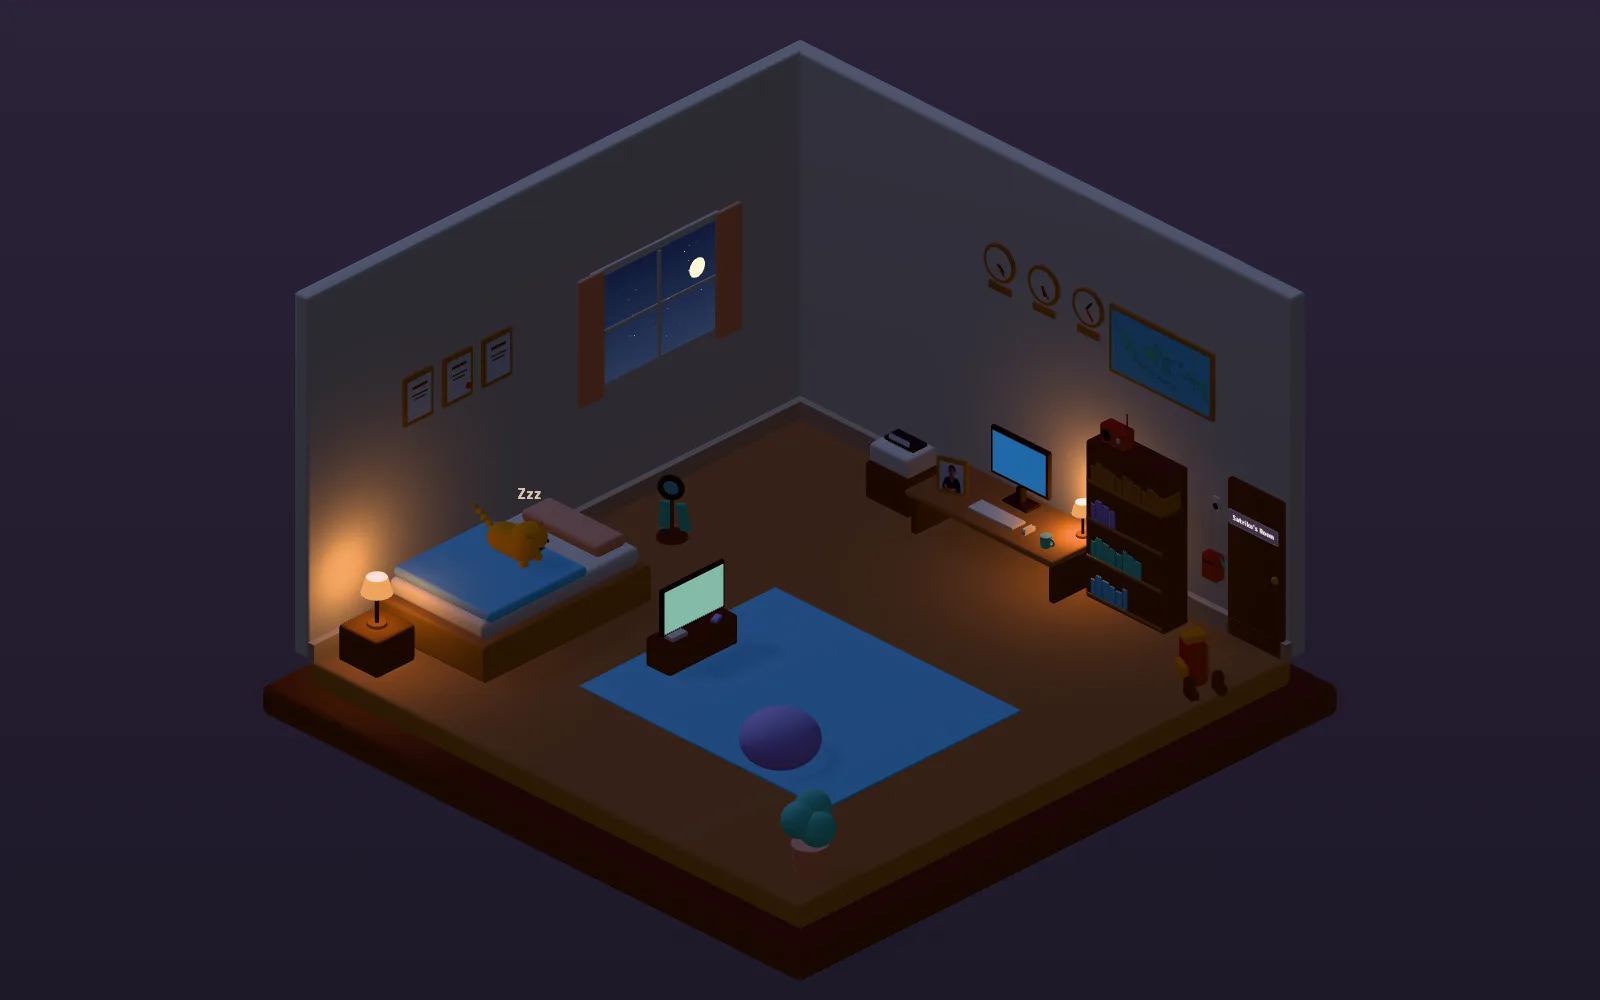
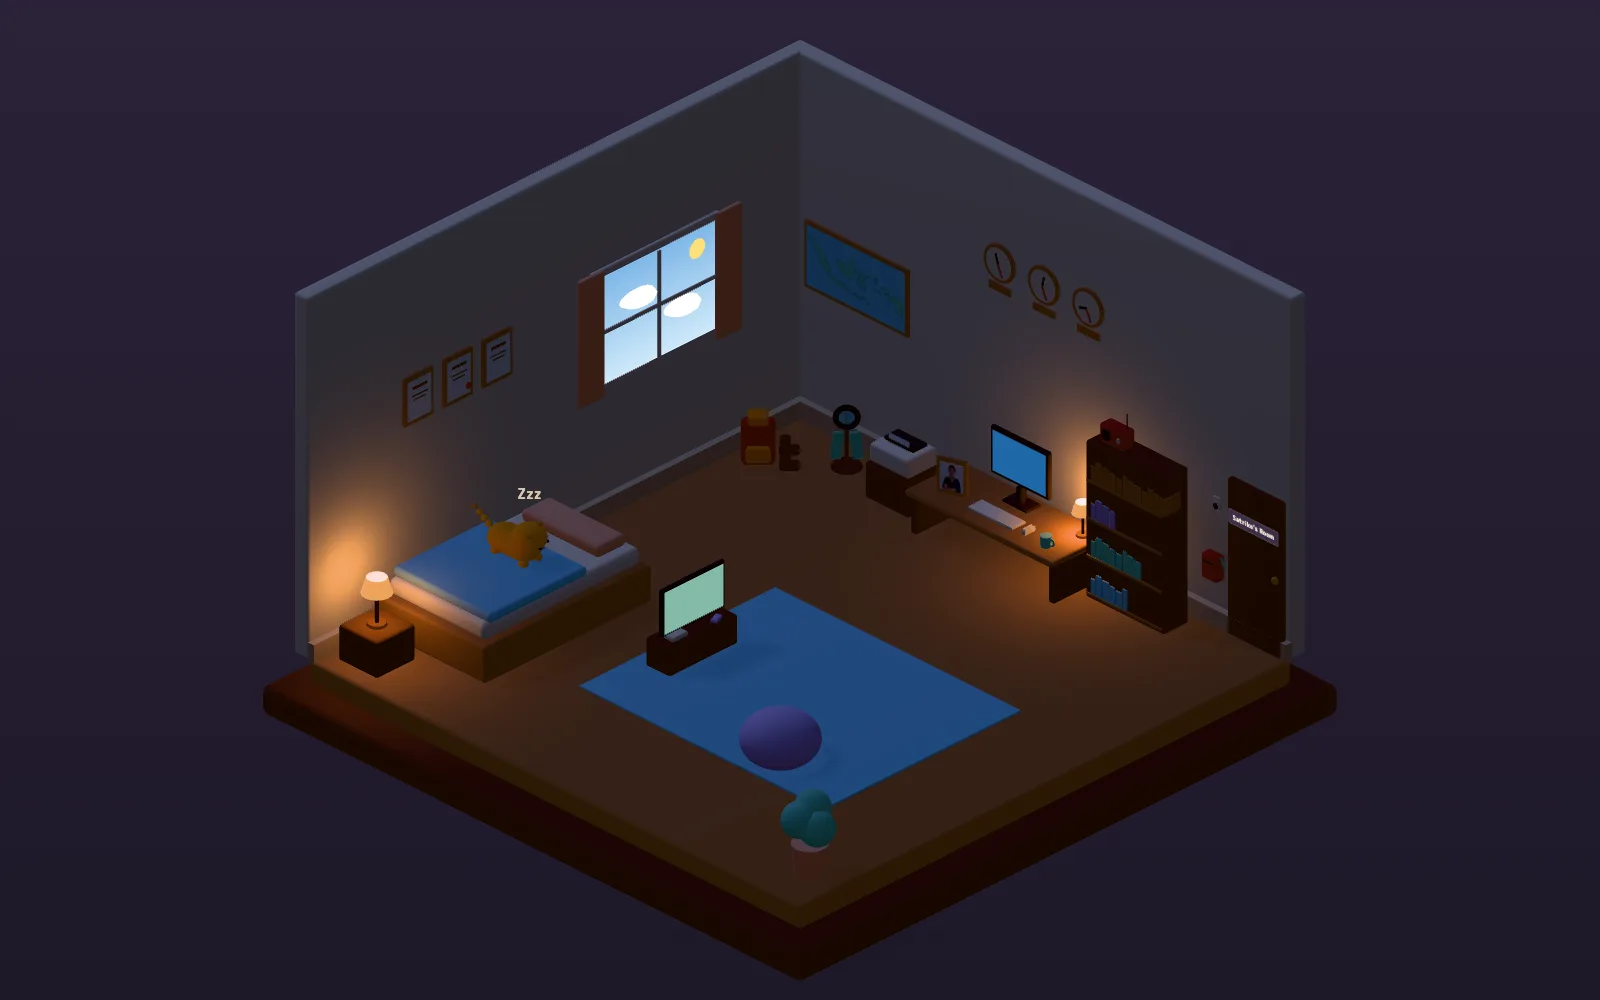
feat: group the outdoor hobbies in the back corner

diff --git a/src/constants/roomLayout.ts b/src/constants/roomLayout.ts
@@ -29,7 +29,6 @@ export const roomLayout: Record<ObjectId | DecorId, Placement> = {
   bed: { position: [-3.8, 0, 2.0], size: [2.2, 0.6, 3.4] },
   nightstand: { position: [-4.3, 0, 4.3], size: [0.8, 0.6, 0.8] },
   bedsideLamp: { position: [-4.3, 0.6, 4.3] },
-  'dive-gear': { position: [-3.8, 0, -1.2] },
   // right wall (z = -5)
   desk: { position: [0, 0, -4.2], size: [3.0, 0.75, 1.2] },
   pc: { position: [0, 0.75, -4.5] },
@@ -41,11 +40,17 @@ export const roomLayout: Record<ObjectId | DecorId, Placement> = {
   printer: { position: [-2.2, 0.6, -4.3] },
   bookshelf: { position: [2.4, 0, -4.45], size: [1.6, 2.6, 0.5] },
   radio: { position: [2.0, 2.6, -4.45] },
-  'indonesia-map': { position: [2.4, 3.9, -4.965], size: [2.0, 1.0, 0.06] },
   'light-switch': { position: [3.5, 2.0, -4.995] },
   mailbox: { position: [3.5, 1.0, -4.995] },
   door: { position: [4.35, 0, -4.935], size: [1.1, 2.6, 0.12] },
-  'hiking-gear': { position: [4.4, 0, -3.6] },
+  // outdoor-hobby corner (where the walls meet): gear on the floor, map above.
+  // Both pieces turn to face the camera, which looks in from +x, +z.
+  // The backpack's boots sit on its right, so it takes the left-wall side where
+  // they stay in view; the narrow dive stand goes against the back wall.
+  'hiking-gear': { position: [-4.45, 0, -3.6], rotationY: Math.PI / 4 },
+  'dive-gear': { position: [-3.45, 0, -4.4], rotationY: Math.PI / 4 },
+  // y 2.76 lines the frame's bottom edge up with the window's (y 2.2).
+  'indonesia-map': { position: [-3.8, 2.76, -4.965], size: [2.0, 1.0, 0.06] },
   // floor
   rug: { position: [0.8, 0.02, 0.8], size: [5, 0.04, 4] },
   tv: { position: [-1.2, 0, 1.0], rotationY: Math.PI / 2 },

diff --git a/src/constants/sections.ts b/src/constants/sections.ts
@@ -114,7 +114,7 @@ export const sections: readonly Section[] = [
     objectId: 'indonesia-map',
     theme: 'map',
     cameraPose: {
-      target: [2.4, 3.9, -4.93],
+      target: [-3.8, 2.76, -4.93],
       offset: [3.0, 1.6, 3.6],
       zoomFactor: 2.2,
     },
@@ -131,7 +131,7 @@ export const sections: readonly Section[] = [
     objectId: 'hiking-gear',
     theme: 'journal',
     cameraPose: {
-      target: [4.4, 0.5, -3.6],
+      target: [-4.25, 0.5, -3.75],
       offset: [3.0, 2.4, 3.4],
       zoomFactor: 2.6,
     },
@@ -148,7 +148,7 @@ export const sections: readonly Section[] = [
     objectId: 'dive-gear',
     theme: 'logbook',
     cameraPose: {
-      target: [-3.8, 0.6, -1.2],
+      target: [-3.45, 0.6, -4.4],
       offset: [3.2, 2.4, 3.4],
       zoomFactor: 2.6,
     },

diff --git a/src/components/three/Oyen/wander.test.ts b/src/components/three/Oyen/wander.test.ts
@@ -59,11 +59,13 @@ const boxes: Record<string, Box> = {
   bookshelf: footprint('bookshelf'),
   tv: [-1.45, -0.95, 0.3, 1.7],
 }
+const atFloor = (id: keyof typeof roomLayout, radius: number) =>
+  [roomLayout[id].position[0], roomLayout[id].position[2], radius] as const
 const circles: Record<string, readonly [number, number, number]> = {
-  beanbag: [1.8, 2.2, 0.6],
-  plant: [4.4, 4.2, 0.45],
-  diveGear: [-3.8, -1.2, 0.4],
-  hikingGear: [4.4, -3.6, 0.7],
+  beanbag: atFloor('beanbag', 0.6),
+  plant: atFloor('plant', 0.45),
+  diveGear: atFloor('dive-gear', 0.4),
+  hikingGear: atFloor('hiking-gear', 0.7),
 }
 // Oyen never stands in front of the desk, so it can't cover the PC.
 const deskFront: Box = [-1.6, 1.6, -3.6, -2.6]

diff --git a/src/components/three/objects/DiveGear/index.tsx b/src/components/three/objects/DiveGear/index.tsx
@@ -13,14 +13,16 @@ export default function DiveGear() {
   return (
     <group
       position={[...roomLayout['dive-gear'].position]}
-      rotation={[0, 0.5, 0]}
+      rotation={[0, roomLayout['dive-gear'].rotationY ?? 0, 0]}
     >
       <Interactive
         id="dive-gear"
         label="Diving"
         hitSize={[0.9, 1.1, 0.7]}
         hitOffset={[0, 0.5, 0]}
-        labelHeight={1.15}
+        // Higher than the backpack's tag beside it, so the two don't overlap on
+        // phones, where every tag is always shown.
+        labelHeight={1.95}
         onActivate={() => openFromScene('diving')}
       >
         <mesh position={[0, 0.45, 0]}>

diff --git a/src/components/three/objects/HikingGear/index.tsx b/src/components/three/objects/HikingGear/index.tsx
@@ -13,14 +13,14 @@ export default function HikingGear() {
   return (
     <group
       position={[...roomLayout['hiking-gear'].position]}
-      rotation={[0, -0.4, 0]}
+      rotation={[0, roomLayout['hiking-gear'].rotationY ?? 0, 0]}
     >
       <Interactive
         id="hiking-gear"
         label="Hiking"
         hitSize={[1.0, 0.9, 0.8]}
         hitOffset={[0, 0.4, 0]}
-        labelHeight={1.0}
+        labelHeight={0.95}
         onActivate={() => openFromScene('hiking')}
       >
         <RoundedBox

diff --git a/docs/design/03-room-scene.md b/docs/design/03-room-scene.md
@@ -8,14 +8,14 @@ A cozy **studio bedroom** (the room Satriko lives, works and games in), shown as
 
 ```text
               LEFT WALL                               RIGHT WALL
-   [Edu frames ×3]  [ WINDOW: live sky ]   [3 clocks]    [Indonesia map]   [Door + "Satriko's Room"]
-                    [curtains]            ┌───────────┐  ┌──────────┐      [Backpack + boots]
-   ┌───────────┐                          │ DESK + PC │  │BOOKSHELF │      [Mailbox]  [light switch]
-   │   BED     │  ← Oyen sleeps here      │ photo frame│  │ radio    │
-   │           │    at night              └───────────┘  └──────────┘
-   └───────────┘         [Dive mask + fins on a stand]   [printer on side table]
+   [Edu frames ×3]  [ WINDOW: live sky ] [Indonesia map]   [3 clocks]                  [Door + "Satriko's Room"]
+                    [curtains]                             ┌───────────┐  ┌──────────┐  [Mailbox]  [light switch]
+   ┌───────────┐  [Backpack + boots] [Dive mask + fins]    │ DESK + PC │  │BOOKSHELF │
+   │   BED     │   ↑ outdoor-hobby corner, under the map   │ photo frame│  │ radio    │
+   │           │  ← Oyen sleeps here   [printer on         └───────────┘  └──────────┘
+   └───────────┘    at night            side table]
                      ╭──────────────── rug ────────────────╮
-                     │   TV + console on low cabinet   ◉ beanbag │   ← Oyen sits here by day
+                     │   TV + console on low cabinet   ◉ beanbag │   ← Oyen starts here by day, then wanders
                      ╰─────────────────────────────────────╯
    [ reserved wall slot for a future Projects pinboard: left wall, between the frames and the window ]
 ```
@@ -35,9 +35,9 @@ This is a starting layout. **Exact positions, rotations and scales are tuned dur
 | 3 | `bookshelf` | Bookshelf with colored book spines | Right wall, next to the desk | Opens `/skills` | Pack (shelf) + code (books) | Skills |
 | 4 | `edu-frames` | 3 certificate frames | Left wall, above the bed | Opens `/education` | Code | Education |
 | 5 | `tv` | TV + game console on a low cabinet | Floor, on the rug | Opens `/gaming` | Pack or code | Gaming |
-| 6 | `indonesia-map` | Illustrated Indonesia map with pins | Right wall | Opens `/travel` | Code (plane + illustrated texture) | Travel |
-| 7 | `hiking-gear` | Backpack + hiking boots | By the door | Opens `/hiking` | Code | Hiking |
-| 8 | `dive-gear` | Dive mask + fins on a stand | Floor, near the bed | Opens `/diving` | Code | Diving |
+| 6 | `indonesia-map` | Illustrated Indonesia map with pins | Back (right) wall, in the outdoor-hobby corner above the hiking and dive gear; its bottom edge lines up with the window's | Opens `/travel` | Code (plane + illustrated texture) | Travel |
+| 7 | `hiking-gear` | Backpack + hiking boots | Outdoor-hobby corner, by the left wall | Opens `/hiking` | Code | Hiking |
+| 8 | `dive-gear` | Dive mask + fins on a stand | Outdoor-hobby corner, against the back wall | Opens `/diving` | Code | Diving |
 | 9 | `clocks` | 3 wall clocks: Bogor / Singapore / Abu Dhabi | Right wall, above the desk | Opens `/remote-work` | Code | Remote work |
 | 10 | `mailbox` | Little mailbox | By the door | Opens `/contact` | Code | Contact |
 | 11 | `printer` | Printer on a side table | Next to the desk | Opens `/resume` | Pack or code | Resume |

diff --git a/README.md b/README.md
@@ -25,7 +25,7 @@ The code is done. These items need Satriko before the production launch. Paths a
 1. **Public CV PDF (blocking, checklist C5).** Export a public version of the CV to `public/resume/Satriko-Aditya-Resume.pdf` with **no phone number and no referees**. Until it exists, the Resume download and the error page's "Download resume" button return 404. Verify (must print `0`):
    `pdftotext public/resume/Satriko-Aditya-Resume.pdf - | grep -ciE "[+]62|referee"`
 2. **Production domain (blocking, C18).** Set `url` in `src/constants/site.ts` (now the placeholder `https://example.com`) to the real domain, then rebuild. The sitemap, robots, canonical URLs, Open Graph URLs and JSON-LD all derive from it. Verify: `yarn build`, then `curl -s localhost:3000/sitemap.xml` (after `yarn start`) lists the new domain.
-3. **Posters in daylight.** The current `public/poster/*` captures were taken at about 04:20 WIB, so the window shows the night sky in both the day and night posters. In Bogor daytime run `yarn build && yarn start`, then in another shell `yarn poster`, and check `room-day.webp` shows a day sky. Commit the three images.
+3. **Posters in daylight: done.** Re-captured at 11:25 WIB on 2026-10-22 with the outdoor-hobby corner, so the day poster shows a day sky. After any layout change, re-run `yarn build && yarn start`, then `yarn poster` in another shell, during Bogor daytime.
 4. **Real-device checks.** Lighthouse Performance under headless SwiftShader was 39 and is not representative. Test iPhone Safari and a mid-range Android: drag and pinch within limits, tags tappable, bottom bar, sheet swipe-to-close, at least 30 fps (or the automatic drop to the low tier). Also run Lighthouse on the production URL (Accessibility and SEO >= 95 on `/experience`).
 5. **Music track (C17): done.** The radio plays a 90 s loop of "Lofi Restaurant" by alex-morgan on Pixabay (Pixabay Content License; Pixabay labels it AI-generated). To swap it, run `yarn music:loop <licensed-track.mp3> [startSeconds] [durationSeconds]`, then update its row in `CREDITS.md` and the Help credits in `src/content/help.ts`. `yarn budgets` keeps the loop at most 1.5 MB.
 6. **Optional: hobby content (C10 to C13).** Games, Indonesia pins, hikes and dives go in `src/content/gaming.ts`, `travel.ts`, `hiking.ts` and `diving.ts`; photos go in `public/images/<section>/`. Empty ones show the "Oyen is still sorting these photos..." state. Verify: `yarn test && yarn build`, then open the panel.

diff --git a/docs/design/08-decision-log.md b/docs/design/08-decision-log.md
@@ -48,6 +48,7 @@ Every decision made during the brainstorming session on **2026-10-21**, in the o
 | 37 | Poster images | Hand-made art vs. screenshots of our own scene | **Captured from our own scene** with `?poster=1` and `yarn poster` (`scripts/capture-poster.mts`); the day capture, cropped to 1200×630, is the OG image | The poster always matches the real room and can be regenerated after any art change. The current captures were taken at night, so they must be re-run in daytime before launch | Design |
 | 38 | Radio music (C17) | Audio from a 12-hour café-jazz YouTube video vs. a free-licence track with the same mood | **"Lofi Restaurant"** by alex-morgan on Pixabay, cut to a 90 s loop with `yarn music:loop` | The YouTube video had no licence (all rights reserved; a short clip is still infringement, and downloading breaks YouTube's terms). Satriko listened to a shortlist of CC0 and Pixabay-licence tracks and chose this one; Pixabay labels it AI-generated | Satriko |
 | 39 | Oyen wandering | Stay seated vs. wander when idle; quiet time 4 / 6 / 10 s; mouse movement counts or not; wander or sit while a panel is open; walk to hinted objects or not | **Wander after 6 s** of no click, tap or key press (mouse movement doesn't count); **sit while a panel is open**; first-visit hints unchanged (Oyen stops where it is). Natural behaviour: walk, look around, groom, loaf, stretch, with long rests; never with reduced motion or at night | Satriko wanted a cat that doesn't stay in one place. 6 s lets visitors look around first and lands just before the 8 s hint | Satriko |
+| 40 | Outdoor-hobby corner | Keep the dive gear (under the window), hiking gear (by the door) and map (above the bookshelf) apart vs. group them | **Grouped in the empty back corner:** backpack and boots by the left wall, dive stand against the back wall, the map on the back wall above them with its bottom edge level with the window's. The wall above the bookshelf stays empty for now | They are all outdoor hobbies. The map goes on the back wall because the left wall has only 1.35 units between the curtain and the corner. The backpack takes the left-wall side so its boots stay in view, and the Diving tag sits higher than the Hiking tag so the two don't overlap on phones | Satriko |
 
 ## Design sections reviewed and approved
 
